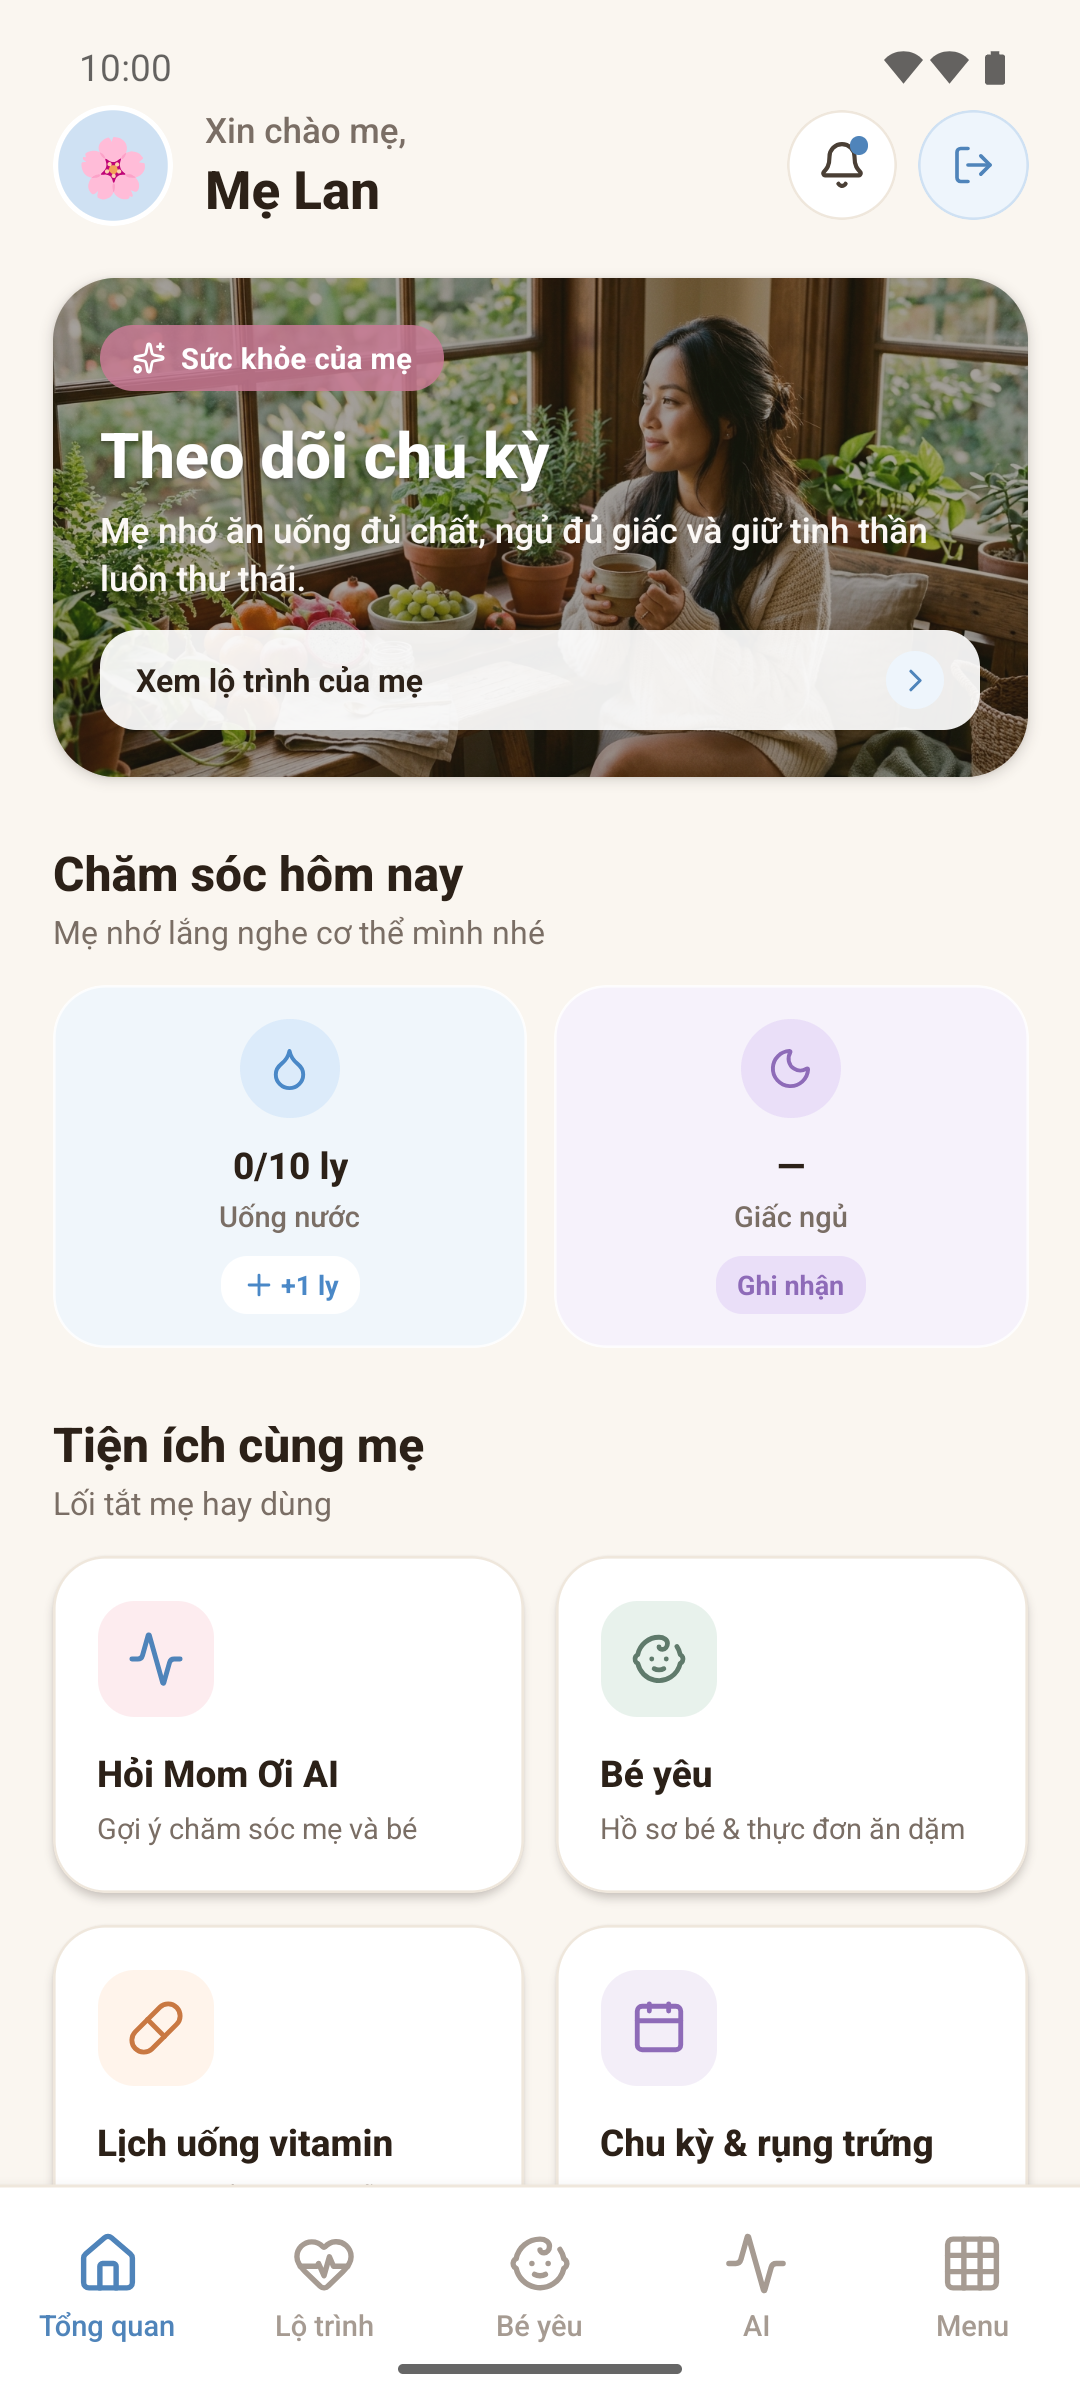
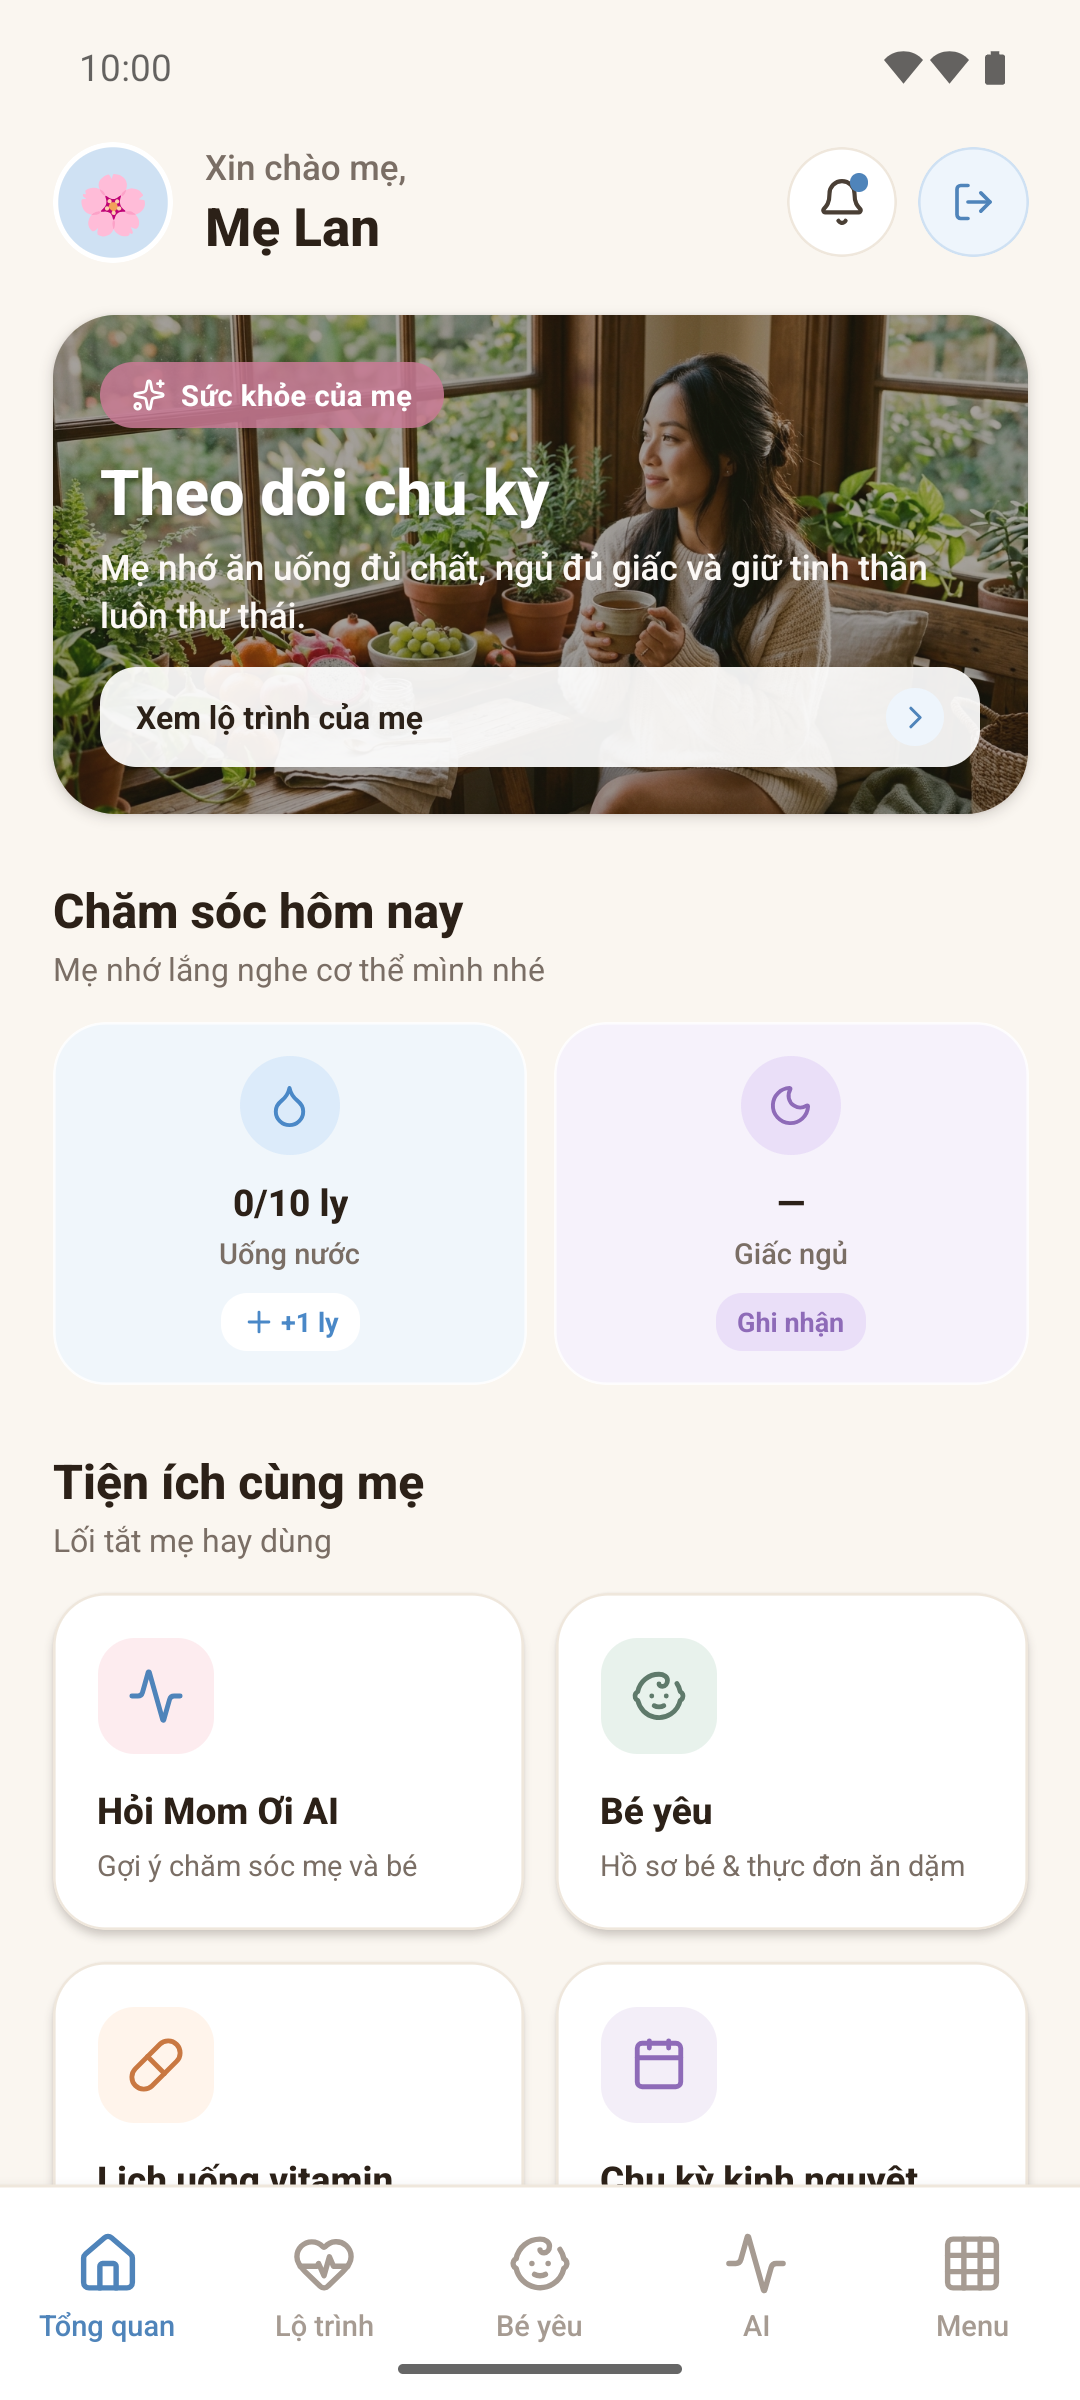
Ảnh Play bản 12: Tổng quan, Chu kỳ kinh nguyệt, Lộ trình; nhật ký

diff --git a/store/NHAT-KY-PHAT-HANH.md b/store/NHAT-KY-PHAT-HANH.md
@@ -26,7 +26,8 @@ và để trả lời bảng câu hỏi khi xin quyền phát hành bản chính
 | 18/11/2026 | (tờ khai sức khỏe) | Khai thêm mục **Sức khỏe sinh sản và tình dục** (nhóm Y tế) vì app có theo dõi thai kỳ. Giữ 5 mục cũ, không thêm mục nào khác | Gửi xem xét 18/11. **Bị từ chối** 19/11: "Play Console Requirements", khai mục Y tế thì phải dùng tài khoản tổ chức |
 | 20/11/2026 | 9 (1.2.0) – bản Play không có phần mang thai | Cờ `PREGNANCY_FEATURES_ENABLED = false` ẩn giai đoạn Mang thai và Sau sinh. Tờ khai quay về 5 mục Sức khỏe & thể dục. Mô tả v3 (store/mo-ta-cua-hang-v3.md). Song song gửi câu hỏi cho chuyên viên chính sách Google | Không tải lên (còn ghi tâm trạng) |
 | 21/11/2026 | 10 (1.2.0) | Theo email chuyên viên Google: bỏ thêm ghi tâm trạng và Lịch chăm sóc | Không tải lên (server còn trả nội dung thụ thai) |
-| 21/11/2026 | 11 (1.2.0) + backend | App gửi header `X-App-Edition: play`; server bỏ nội dung thụ thai cho bản Play (AI, thông báo BR01, lời khuyên chu kỳ, món ăn AI) | Đang chuẩn bị |
+| 21/11/2026 | 11 (1.2.0) + backend | App gửi header `X-App-Edition: play`; server bỏ nội dung thụ thai cho bản Play (AI, thông báo BR01, lời khuyên chu kỳ, món ăn AI) | Không tải lên (còn dự đoán rụng trứng) |
+| 21/11/2026 | 12 (1.2.1) | Bỏ dự đoán rụng trứng (cờ `OVULATION_ENABLED = false`): màn "Chu kỳ kinh nguyệt" chỉ đếm ngày đến kỳ kinh tiếp theo. Mô tả cửa hàng bỏ chữ rụng trứng | Sẵn sàng tải lên (store/mom-oi-build12.aab) |
 
 ## Chi tiết
 
@@ -258,6 +259,12 @@ và để trả lời bảng câu hỏi khi xin quyền phát hành bản chính
     - Hỏi AI "Mẹ nên ăn gì để đỡ mệt?": không còn chữ mang thai / mẹ bầu / thụ thai / rụng trứng.
   - 21/11: AI trả về dấu `**` (Markdown) hiện nguyên văn. Backend commit `afaf960`: dặn AI trả văn bản thuần và server tự xoá `**`. Đã kiểm tra lại trên máy ảo.
   - Ảnh Play mới, đã cắt thanh trạng thái và thêm lề cho tỉ lệ 9:16 như bộ ảnh cũ: `play-v3-1-tong-quan.png`, `play-v3-2-chu-ky.png`, `play-v3-3-ai.png`, `play-v3-4-lo-trinh.png`. Ảnh thứ 5 dùng lại `play-phone-3.png` (Bé yêu).
+- **Bản 12 (1.2.1), 21/11:**
+  - Người dùng đồng ý bỏ dự đoán rụng trứng vì có thể bị xếp vào Sức khỏe sinh sản.
+  - App commit `ec27a11`: thêm cờ `OVULATION_ENABLED = false`, đổi tên màn thành Chu kỳ kinh nguyệt, lịch chỉ đánh dấu kỳ kinh dự kiến, thẻ Còn N ngày đến kỳ kinh. Sửa chữ ở Tổng quan, Lộ trình, Hồ sơ, Trang khách.
+  - Backend commit `293b7ac`: `ovulation-today` trả thêm `DaysUntilNextPeriod`.
+  - Mô tả v3: bỏ dòng rụng trứng; đổi cảm giác đi kèm / how you feel thành biểu hiện như đau bụng, mệt mỏi.
+  - Kiểm tra trên máy ảo: Tổng quan, Chu kỳ (Còn 9 ngày, khớp 30/11), Lộ trình, Menu không còn chữ rụng trứng. Chụp lại ảnh 1, 2, 4.
 - **Tờ khai:** giữ 5 mục Health & Fitness, theo câu trả lời số 2 của chuyên viên. Mục Thư giãn vẫn đúng vì còn nhạc thư giãn và bài thở.
 
 ## Theo dõi người thử (cập nhật dần)
